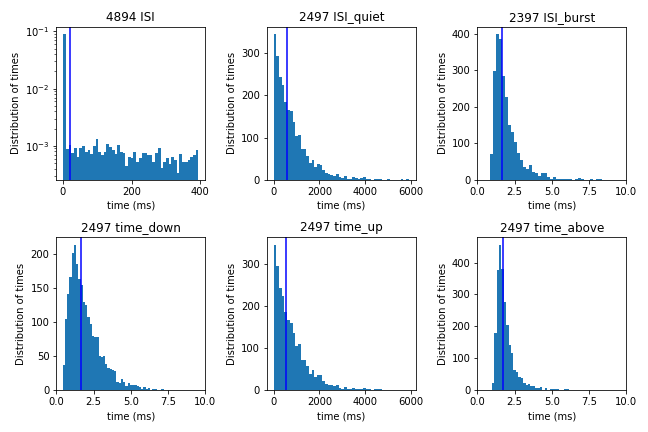
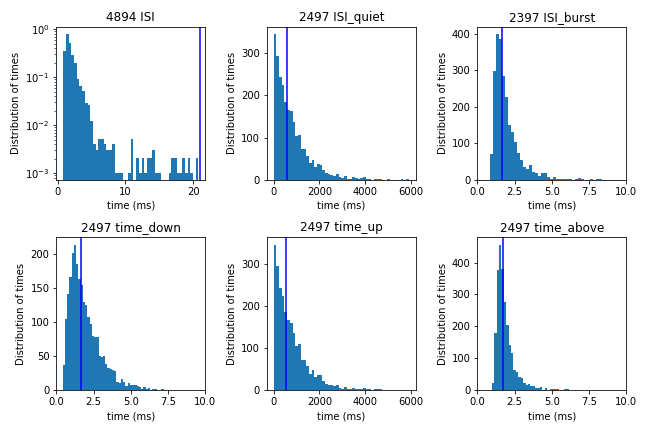
quiet and burst hists

diff --git a/Neuron.py b/Neuron.py
@@ -253,7 +253,7 @@ def plot_histograms(results):
         ax.set_xlabel('time (ms)')
         ax.set_ylabel('Distribution of times')
         if key == 'ISI':
-            cut = np.where(flat_intervals <= 1*np.mean(flat_intervals))
+            cut = np.where(flat_intervals <= 1*np.median(flat_intervals))
             ax.hist(flat_intervals[cut]*1000, normed = True, bins = 50, log = True)
         else:
             ax.hist(flat_intervals*1000, normed = False, bins = 50)
@@ -268,6 +268,16 @@ def plot_histograms(results):
             ax.set_xlim=((xmin,xmax))
     
     plt.tight_layout()  
+    
+def plot_quiet_and_burst_hist(results):
+    intervals = results
+    keys_ordered = ['ISI_quiet', 'ISI_burst']
+    colors = ['.5','1']
+    plt.figure()
+    for key, color in zip(keys_ordered,colors):
+        flat_intervals = np.array([interval for neuron in intervals[key] for interval in neuron])
+        plt.hist(flat_intervals*1000, normed = False, bins = 50, color=color, alpha = .5, range = ((0,200)))
+    plt.show()
     
 def find_saddle(tau_n, Iapp, node, cycle_boundary):
     '''Finds saddle location given parameters'''

diff --git a/plot_hists_quiet_and_burst.py b/plot_hists_quiet_and_burst.py
@@ -1,11 +1,13 @@
 from brian2 import *
 from Neuron import *
 
+plt.rcParams['figure.figsize'] = 3, 3  
+
 tau_ns = [ .155, .1575,.16,.1625, .165]*ms
 Iapps = [1.2,2.3,3.2,3.9,4.3]*uA
 I_noises = [2,2.5,3]*uA
 duration = 50*second
-number = 40
+number = 10
 
 for I_noise in I_noises:
     for tau_n in tau_ns:
@@ -14,9 +16,9 @@ for I_noise in I_noises:
             print(file_name)
             try:     
                 results = get_simulation(file_name)
-                plot_histograms(results) 
+                plot_quiet_and_burst_hist(results)
                 if duration/ms >= 10000:
-                    plt.savefig('histograms/'+file_name+'.png')
+                    plt.savefig('histograms_quiet_and_burst/'+file_name+'.png')
                 plt.show()
             except IOError:
                 pass
